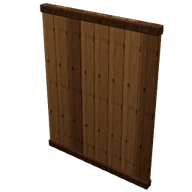
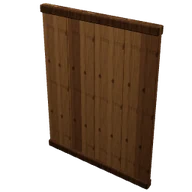
Avance: el muro de tablas sin rendijas (las tablas solapadas), sus imágenes otra vez y las vistas de los muebles y del adarve
Claude-Session: https://claude.ai/code/session_011XgxtiiuVUwyUBaoC5kbrr

diff --git a/src/mundo/modelos.js b/src/mundo/modelos.js
@@ -253,10 +253,13 @@ function muroTablas(opc = {}) {
   for (let t = 0; t < n; t++) {
     const x = -MODULO / 2 + w / 2 + t * w;
     const color = ruido(t * 3.7 + 1) > 0.5 ? 'tabla' : 'madera';
+    // (20 nov) las tablas se solapan un poco, una adelante y otra atrás, como clavadas a tope: antes quedaba una
+    // rendija entre cada dos por la que se veía la luz de detrás como una raya blanca
+    const z = (t % 2 ? 1 : -1) * P.grosorTabla * 0.22;
     if (opc.puerta && Math.abs(x) < P.anchoPuerta / 2) {
       const h = ALTURA - P.altoPuerta;
-      L.add(cajaR(w * 0.95, h, P.grosorTabla, 0.012), color, x, P.altoPuerta + h / 2, 0);
-    } else L.add(cajaR(w * 0.95, ALTURA, P.grosorTabla, 0.012), color, x, ALTURA / 2, 0);
+      L.add(cajaR(w * 1.04, h, P.grosorTabla, 0.012), color, x, P.altoPuerta + h / 2, z);
+    } else L.add(cajaR(w * 1.04, ALTURA, P.grosorTabla, 0.012), color, x, ALTURA / 2, z);
   }
   const c = 'maderaOsc';
   if (opc.puerta) {
@@ -275,10 +278,12 @@ function muroTablas(opc = {}) {
 function muroTablasVentana() {
   const L = loteMuro();
   const n = 8, w = MODULO / n, a = P.anchoVentana / 2, gr = P.grosorTabla;
-  const tabla = (x0, x1, y0, y1, color) => { if (x1 - x0 > 0.01 && y1 - y0 > 0.01) L.add(cajaR((x1 - x0) * 0.95, y1 - y0, gr, 0.012), color, (x0 + x1) / 2, (y0 + y1) / 2, 0); };
+  let z = 0;   // (20 nov) solapadas, una adelante y otra atrás, sin rendijas (como en muroTablas)
+  const tabla = (x0, x1, y0, y1, color) => { if (x1 - x0 > 0.01 && y1 - y0 > 0.01) L.add(cajaR((x1 - x0) * 1.04, y1 - y0, gr, 0.012), color, (x0 + x1) / 2, (y0 + y1) / 2, z); };
   for (let t = 0; t < n; t++) {
     const x0 = -MODULO / 2 + t * w, x1 = x0 + w;
     const color = ruido(t * 3.7 + 1) > 0.5 ? 'tabla' : 'madera';
+    z = (t % 2 ? 1 : -1) * gr * 0.22;
     if (x1 <= -a || x0 >= a) { tabla(x0, x1, 0, ALTURA, color); continue; }
     tabla(Math.max(x0, -a), Math.min(x1, a), 0, P.bajoVentana, color);
     tabla(Math.max(x0, -a), Math.min(x1, a), P.altoVentana, ALTURA, color);

diff --git a/pruebas/prueba_nivel2_navegador.py b/pruebas/prueba_nivel2_navegador.py
@@ -140,7 +140,7 @@ def recorrido(nav, nombre, vista, movil):
         puestos = ev(f"{K}.mundo.decoracion.map(d => d.tipo)")
     comprobar(f'{nombre}: los seis muebles de tablas, puestos', sorted(puestos) == sorted(t for t, _, _ in MUEBLES), str(puestos))
     pg.add_style_tag(content='body > :not(canvas) { visibility: hidden !important; }')
-    D = 1.3 if movil else 1
+    D = 1.9 if movil else 1   # (en el móvil, de pie, el cuadro es estrecho: más lejos)
     # con la cámara libre (la del admin), mirando a cada cosa desde (yaw, pitch, dist); el jugador, lejos (no tapa nada)
     vistas = [
         ('casa_tablas', 3.0, 1.6, 2.0, 3.55, 0.28, 10.5),     # de frente: la puerta, la ventana con su contraventana y el tejado de tablillas
@@ -151,8 +151,9 @@ def recorrido(nav, nombre, vista, movil):
         ('armazon_arriba', 2.0, 2.6, 12.0, 0.3, 0.95, 6.0),   # desde arriba: el suelo de tablas y la trampilla
         ('polipasto', 3.0, 1.6, 14.0, 0.2, 0.18, 4.5),        # el polipasto, en la viga de detrás
         ('adarve', 15.0, 1.6, 1.0, 0.2, 0.3, 8.5),            # la empalizada con su puerta y el adarve, por dentro
-        ('muebles', 11.0, 0.6, 10.2, 0.1, 0.55, 6.5),         # los muebles de tablas
-        ('muebles_cerca', 11.0, 0.6, 10.4, 0.0, 0.35, 3.6),
+        ('adarve_lado', 13.0, 1.5, 1.0, -1.6, 0.2, 5.5),       # de lado: el adarve arrimado a la empalizada
+        ('muebles', 11.0, 0.6, 10.2, 3.24, 0.55, 6.5),         # los muebles de tablas
+        ('muebles_cerca', 11.0, 0.6, 10.2, 3.14, 0.32, 4.0),
     ]
     import math
     ev(f"(() => {{ const k = {K}; k.cambiarModo('mover'); Object.assign(k.pj, {{ x: -25, z: -25 }}); }})()")
